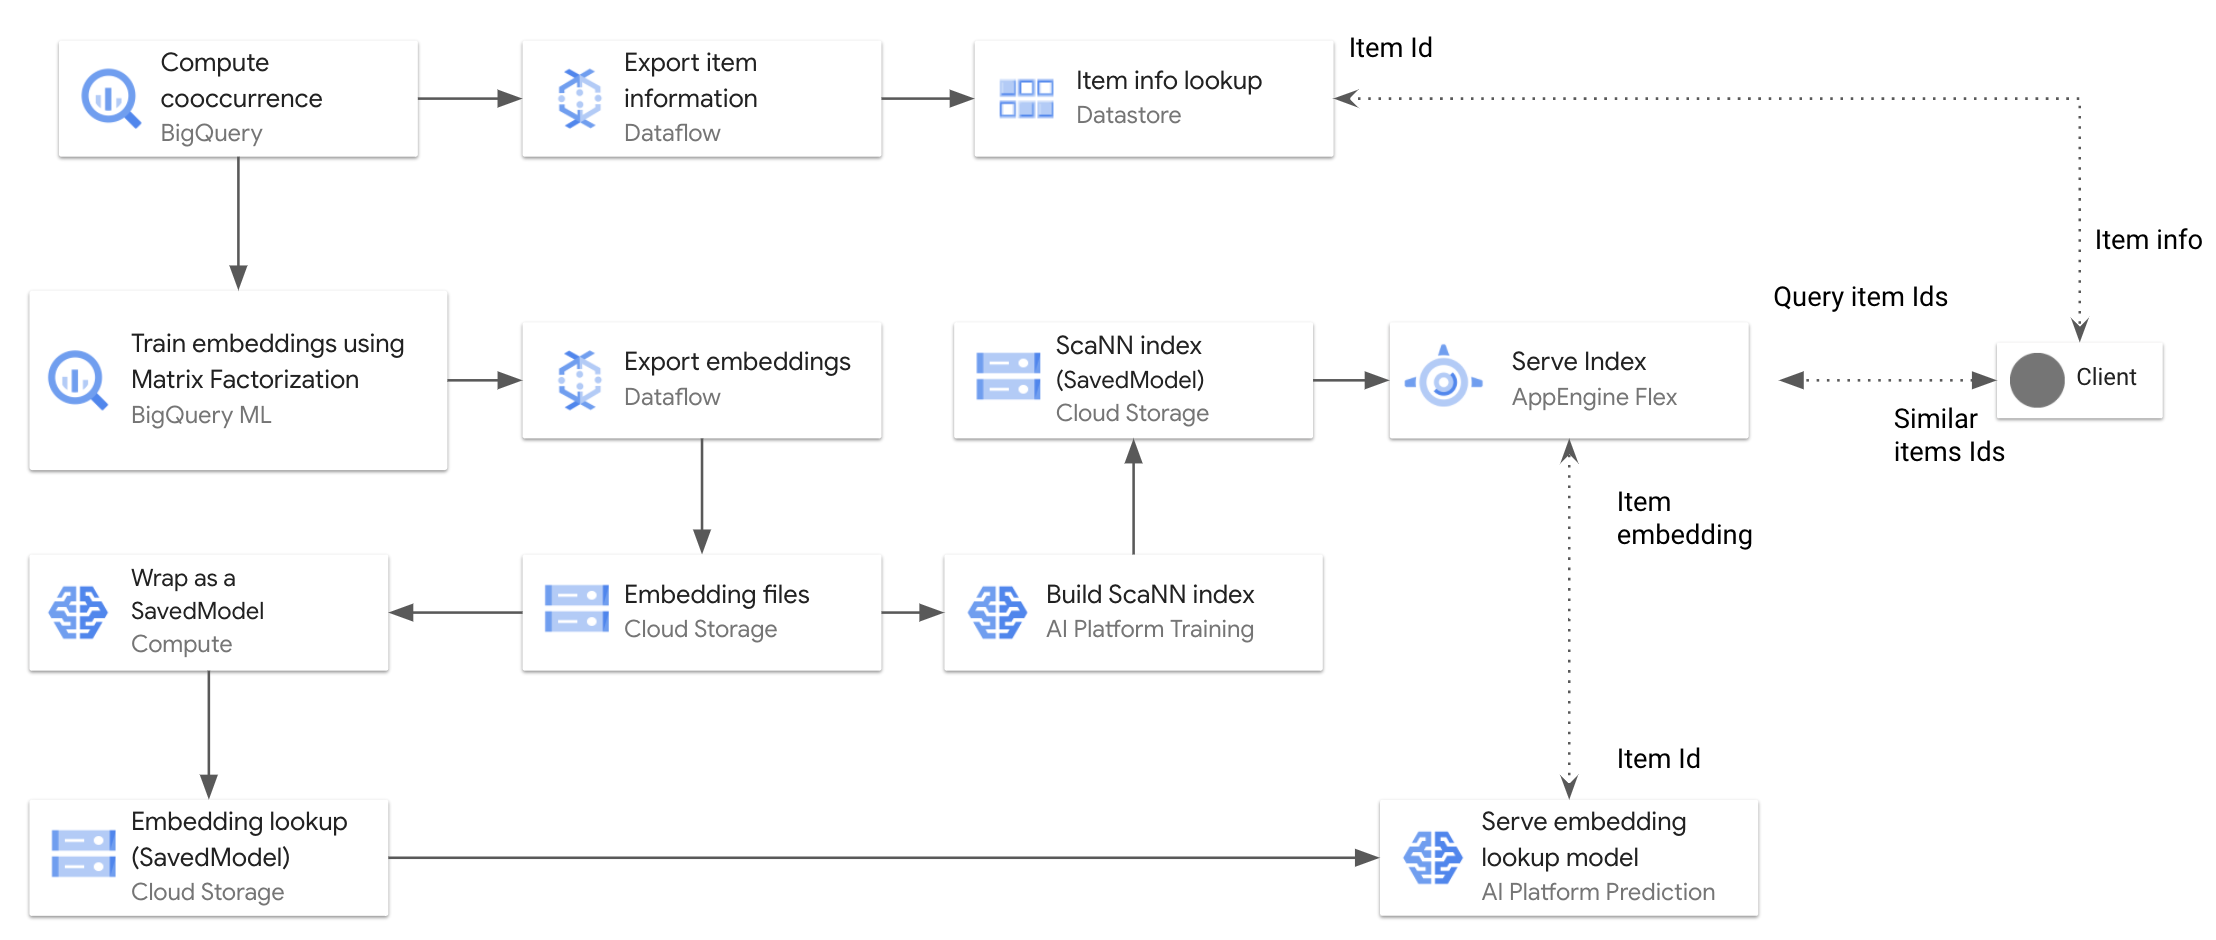
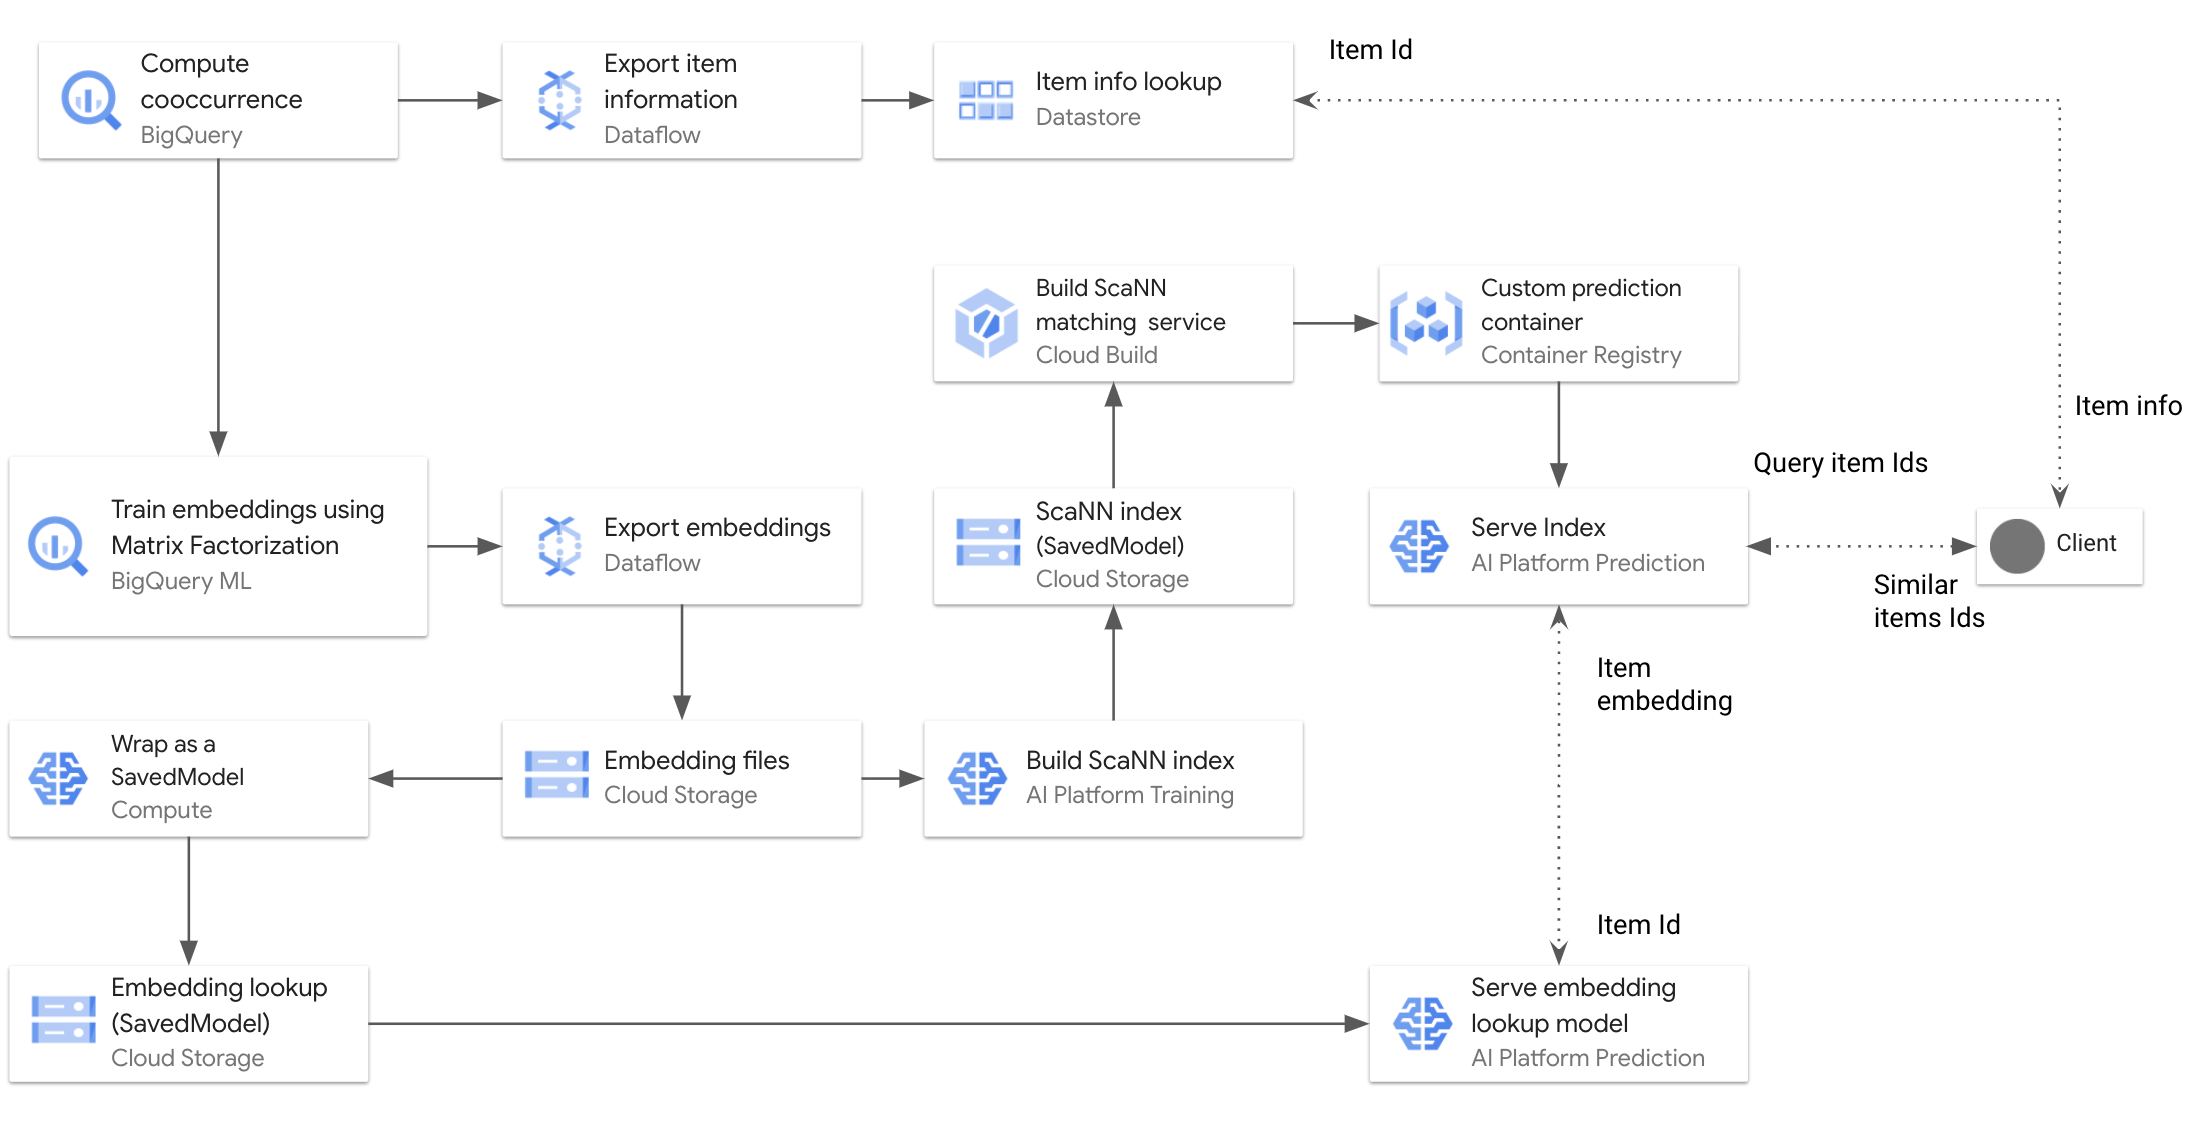
Update README.md and diagram

diff --git a/retail/recommendation-system/bqml-scann/README.md b/retail/recommendation-system/bqml-scann/README.md
@@ -6,11 +6,10 @@ model to train the embeddings, and the open-source [ScaNN framework](https://ai.
 approximate nearest neighbour index.
 
 1. Compute pointwise mutual information (PMI) between items based on their cooccurrences.
-<<<<<<< HEAD
 2. Train item embeddings using BigQuery ML Matrix Factorization, with item PMI as implicit feedback.
 3. Export and post-process the embeddings from BigQuery ML model to Cloud Storage as CSV files using Cloud Dataflow.
 4. Implement an embedding lookup model using Keras and deploy it to AI Platform Prediction.
-5. Serve the embedding as an approximate nearest neighbor index using ScaNN for real-time similar items matching.
+5. Serve the embedding as an approximate nearest neighbor index using ScaNN on AI Platform Prediction for real-time similar items matching.
 
 ![Workflow](diagram.png)
 
@@ -47,7 +46,8 @@ This notebook covers building an approximate nearest neighbor index for the embe
 using ScaNN and AI Platform Training. The built ScaNN index then is stored in Cloud Storage.
 
 [05_serve_scann_for_matching.ipynb)](05_serve_scann_for_matching.ipynb) - 
-This notebook covers deploying the ScaNN index to AppEngine for real-time similar item matching. The matching service works as follows:
+This notebook covers deploying the ScaNN index to AI Platform Prediction with a custom container for real-time similar item matching. 
+The matching service works as follows:
 1. Accepts a query item Id.
 2. Looks up the embedding of the query item Id from Embedding Lookup Model in AI Platform Prediction.
 3. Uses the ScaNN index to find similar item Ids for the given query item embedding.
@@ -67,12 +67,3 @@ See the License for the specific language governing permissions and limitations 
 
 **This is not an official Google product but sample code provided for an educational purpose**
 
-
-=======
-2. Train item embeddings using BigQuery ML Matrix Factorization, using item PMI as implicit feedback.
-3. Export and post-process the embeddings from BigQuery ML model to Cloud Storage as CSV files using Cloud Dataflow.
-4. Implement an embedding lookup model using Keras and deploy it to AI Platform Prediction.
-5. Serve the embedding as an approximate nearest neighbor index using ScaNN
-
-![Workflow](diagram.png)
->>>>>>> 789235981ee63da0a3bfd5785159f072e06d4551
